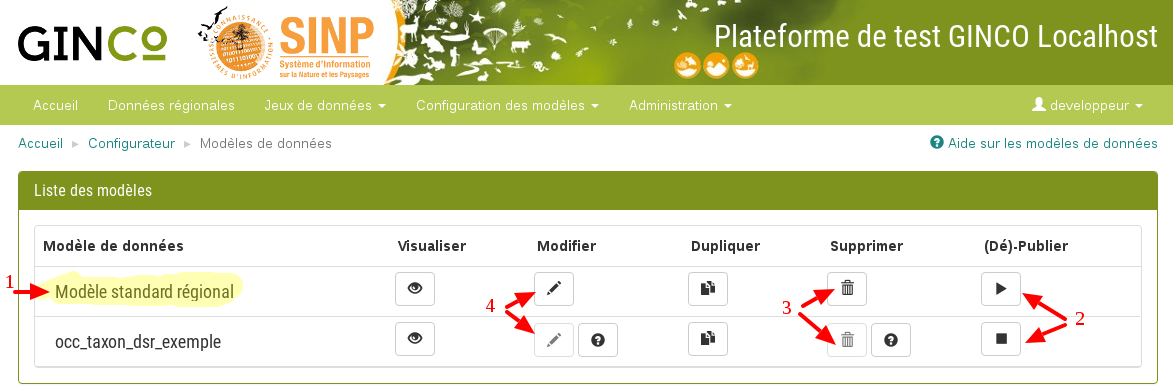
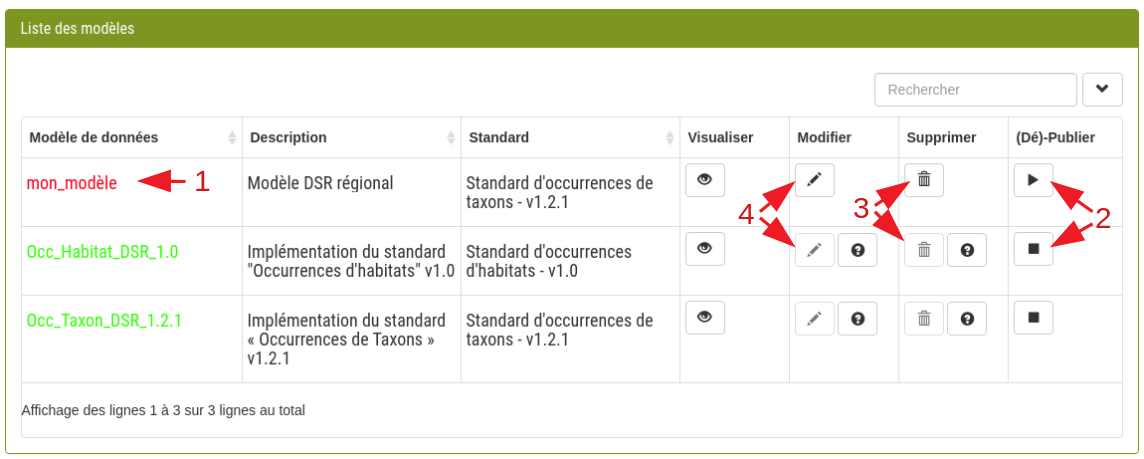
documentation for standard habitat

diff --git a/documentation/user/source/configurateur/modele-de-donnees.rst b/documentation/user/source/configurateur/modele-de-donnees.rst
@@ -30,21 +30,18 @@ Créer un modèle de données
 
 Il faut avoir cliqué sur "Modèles de données" dans le menu pour accéder à la page de gestion des modèles de données.
 
-1. GINCO propose un modèle de données de base : **Occ_Taxon_DSR_exemple** (**1**).
+1. GINCO propose deux modèles de données de base : **Occ_Taxon_DSR_exemple** et **Occ_Habitat_DSR** qui sont des exemples de modèles de données implémentant respectivement le standard des occurences de taxon et le standard des occurences d'habitat.
 
-.. note:: Le modèle Occ_Taxon_DSR_exemple est le modèle de base. Il n'est possible ni de le supprimer, ni de le modifier.
+.. note:: Ce sont les modèles de base. Il n'est possible ni de les supprimer, ni de les modifier.
 
-Pour créer un nouveau modèle, vous devez dupliquer le modèle DSR de base ou un
-modèle qui l'a étendu (**2**).
+Pour créer un nouveau modèle, vous devez cliquer sur le bouton **Créer un modèle de données.**
 
-.. warning :: Il n'est plus possible de créer un modèle à partir de zéro. C'est en effet un processus laborieux et un peu dangereux car rien ne garantit que le modèle ainsi configuré permettra l'export correct en DEE et que tous les champs techniques nécessaires au bon fonctionnement de la plate-forme seront présents.
+.. warning :: Il n'est plus possible de créer un modèle à partir de zéro. C'est en effet un processus laborieux et un peu dangereux car rien ne garantit que le modèle ainsi configuré permettra l'export correct en DEE et que tous les champs techniques nécessaires au bon fonctionnement de la plate-forme seront présents. La création d'un nouveau modèle consiste en fait à dupliquer un modèle de base, qui pourra alors être étendu.
 
-2. Pour copier un modèle existant, cliquer sur l'icône "Dupliquer" correspondante. Un modèle contenant les mêmes tables et champs que le modèle initial sera créé. Vous ne devez pas modifier ou supprimer des champs provenant du modèle DSR de base.
-
-Vous pourrez alors indiquer le nom de votre nouveau modèle ainsi qu'une description
+Vous devez ensuite choisir le standard de données que votre modèle implémente, et vous pourrez alors indiquer le nom de votre nouveau modèle ainsi qu'une description
 (facultative) :
 
-.. image:: ../images/new-data-model.png
+.. image:: ../images/configurateur/configurateur-modele-choix-standard.png
 
 Votre nouveau modèle est visible sur la page de gestion des modèles de données (1) :
 
@@ -182,21 +179,18 @@ Le modèle de données sera alors disponible en production.
 
 Si toutes ces conditions ne sont pas atteintes, le bouton de publication est grisé.
 
-.. note:: Une fois publié, le modèle de données ne peut plus être ni supprimé ni
-    modifié. Vous pouvez toutefois continuer à consulter sa configuration en visualisant
-    son contenu (bouton Visualiser).
-
 La publication est la première étape à effectuer dans le processus de mise à disposition
 de vos données. Elle est nécessaire à la publication des modèles d'import de
 fichiers qui vont alimenter ce modèle de données.
 
-Lorsque vous publiez un modèle de données, toutes les tables qui y ont été configurées sont générées en base de données.
+Lorsque vous publiez un modèle de données pour la première fois, toutes les tables qui y ont été configurées sont générées en base de données.
 
 Si vous souhaitez dépublier un modèle de données, il suffit de cliquer sur le bouton d'arrêt de lecture dans le tableau des modèles de données :
 
 .. image:: ../images/configurateur/configurateur-modele-depublication.png
 
-A la dépublication d'un modèle de données, tous les modèles d'import qui lui sont associés seront également dépubliés. Il ne vous sera alors plus possible de téléverser des données d'observation.
+A la dépublication d'un modèle de données, tous les modèles d'import qui lui sont associés seront également dépubliés. Il ne vous sera alors plus possible de téléverser des données d'observation, tant que ce modèle restera dépublié.
 
-.. warning:: Il n'est pas possible de dépublier un modèle de données si des données
-    ont été insérées dans les tables de ce modèle.
+En revanche, vous pourrez de nouveau accéder à la modification du modèle pour y ajouter ou supprimer des champs (les champs du modèle de base ne sont pas supprimables).
+
+Une fois vos modifications terminées, cliquez à nouveau sur Publier et vous pourrez alors à nouveau verser des données dans ce modèle.

diff --git a/documentation/user/source/gestion-jdd/rapport-erreur.rst b/documentation/user/source/gestion-jdd/rapport-erreur.rst
@@ -158,3 +158,7 @@ Erreurs de cohérence
 * **1212 -  Le cdNom indiqué n'est pas dans le référentiel TAXREF** ; la valeur de cdNom n'a pu être trouvée dans la version courante du référentiel.
 
 * **1213 -  Le cdRef indiqué n'est pas dans le référentiel TAXREF** ; la valeur de cdRef n'a pu être trouvée dans la version courante du référentiel.
+
+* **1214 -  Le champ cdHab doit être rempli car nomCite a pour valeur + nomCite** ; la valeur du cdHab doit être fournie lorsque le nom cité est égal à "Inconnu" ou "Nom perdu".
+
+* **1215 -  Le champ precisionTechnique doit être rempli car la valeur de techniqueCollecte est 10 (Autre, à préciser).** ; lorsque la technique collecte ne fait pas partie des valeurs listées, alors le champ precisionTechnique doit être rempli pour préciser la technique de collecte utilisée.

diff --git a/documentation/user/source/gestion-jdd/import-shapefile.rst b/documentation/user/source/gestion-jdd/import-shapefile.rst
@@ -5,9 +5,9 @@
 Fichier d'import shapefile
 ==========================
 
-Sur la page de chargement des données, un second onglet permet d'importer des fichiers shapefile.
+Sur la page de chargement des données, le formulaire permet de charger indifféremment un fichier CSV ou un fichier shapefile.
 
-.. image:: ../images/gestion-jdd/import-shapefile.png
+Si vous choisissez de soumettre un fichier shapefile, il sera transformé en CSV sur le serveur.
 
 Un shapefile étant constitué de plusieurs fichiers, ils doivent être regroupés dans une archive .zip portant le même nom que les fichiers. L'archive doit contenir au moins 4 fichiers avec les extensions .shp, .dbf, .shx et .prj
 

diff --git a/documentation/user/source/introduction/presentation.rst b/documentation/user/source/introduction/presentation.rst
@@ -56,6 +56,7 @@ Languedoc-Roussillon                                https://ginco.naturefrance.f
 Midi-Pyrénées                                       https://ginco.naturefrance.fr/midipyrenees
 Nouvelle-Aquitaine     			                    https://ginco.naturefrance.fr/nouvelleaquitaine
 Pays de la Loire                           			https://ginco.naturefrance.fr/paysdelaloire
+Occitanie                                           https://ginco.naturefrance.fr/occitanie
 ==============================================    =====================================
 
 ==============================================    =====================================

diff --git a/documentation/user/source/traitements/sensibilite.rst b/documentation/user/source/traitements/sensibilite.rst
@@ -3,6 +3,8 @@
 Calcul de la sensibilité
 ========================
 
+.. note:: Le calcul de sensibilité ne concerne que les données rattachées au standard des occurences de taxon. Pour le standard des occurences d'habitat, la sensibilité est déclarative.
+
 La sensibilité est calculée à partir d'un référentiel de sensibilité.
 Un référentiel liste des croisements de taxons, localisations (départements), durées de sensibilité.
 Il permet de définir au niveau de la donnée un indice de sensibilité (entre 0 et 4)
